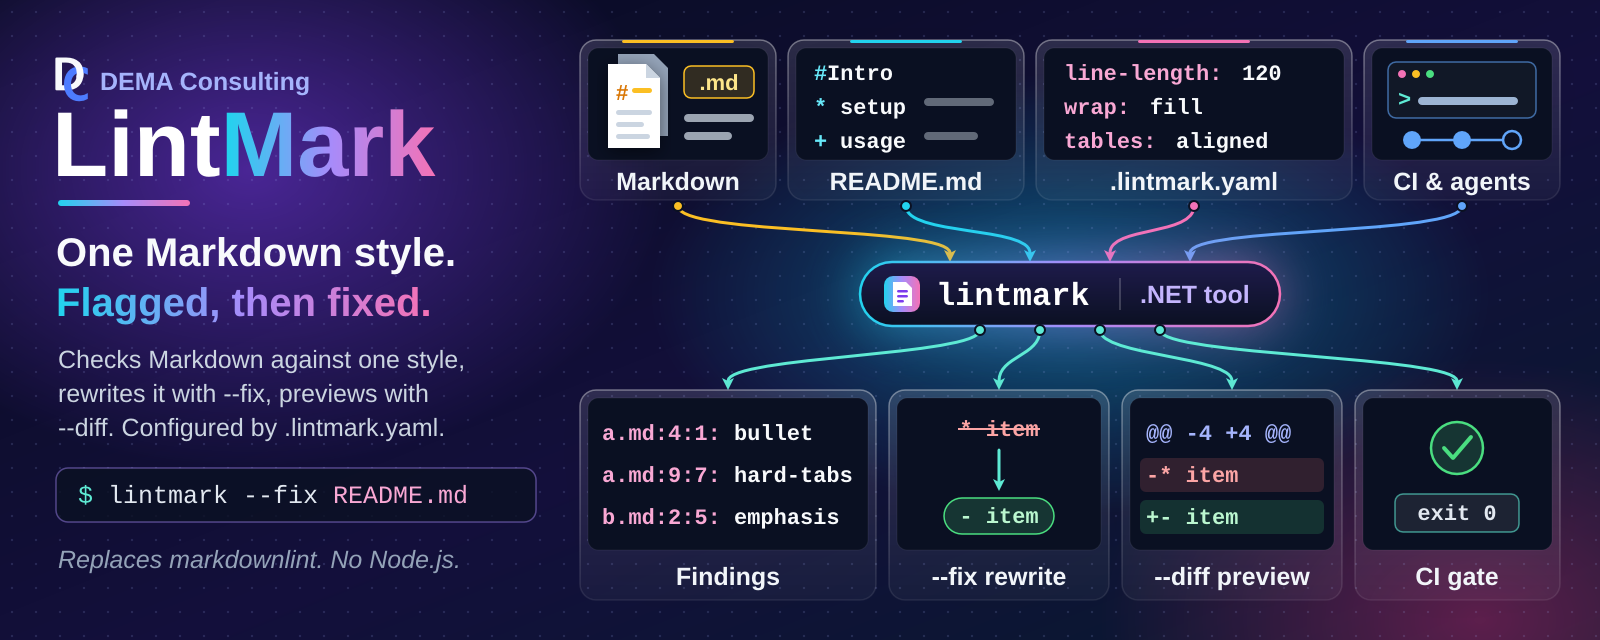
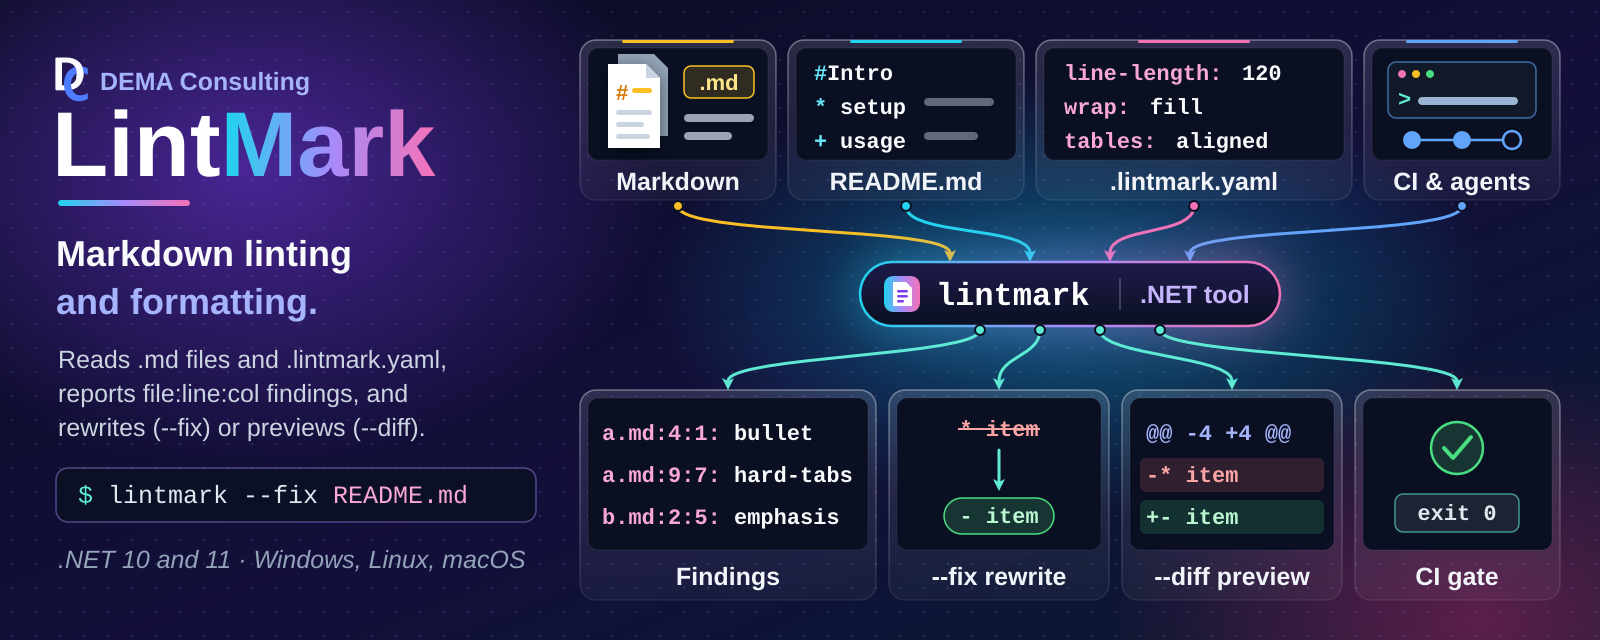
Sync agents/template and calm the README hero (#37)
* Sync agents, skills, and standards from Agents main

Copy .github/agents, skills, and standards byte-identical from
demaconsulting/Agents main (#60, #62, #64) and add the Project Scripts
section to AGENTS.md (#62).

* Sync template: yamlfix comments, script customization headers, tool pins

- .yamlfix.toml: line_length = 10000 and comments_require_starting_space = false
  with the template notes (#59, #61)
- .yamllint.yaml: disable line-length (YAML no-limit policy, #59)
- build/lint/fix.ps1: CUSTOMIZATION headers replace the old modification
  policy text (#63); no behavior change
- LintMark 0.1.0-beta.3, TextLint 0.1.0-beta.5 (#59)

* Calm the README hero and make it the H1

- Tagline is a plain statement: 'Markdown linting / and formatting.'
  (solid white and #a5b4fc, 36px, no gradient)
- Factual body, real command, and a targets/platforms footnote
- README: the hero is the H1 with the badges under it; no duplicate title
- Right side unchanged (all outputs are produced by lintmark itself)

* Record the legacy SysML2 package layout as a standards exception

* README: keep the hero H1 alt text to the name and tagline

The hero image is the H1, so its alt text is the page title for screen readers; the details are in the README text below.

---------

Changed region(s): [[0.0312, 0.375, 0.2812, 0.6875], [0.0312, 0.8438, 0.3438, 0.9062]]

diff --git a/.github/standards/sysml2-modeling.md b/.github/standards/sysml2-modeling.md
@@ -31,15 +31,15 @@ docs/sysml2/
 ├── common/
 │   └── software-items.sysml           # shared SoftwareItemMetadata::SoftwareInfo metadata def
 ├── model/
-│   ├── {system-name}.sysml            # system-level part def only (no subsystems/units inline)
+│   ├── {system-name}.sysml            # package {SystemName}; system-level part def only (no subsystems/units inline)
 │   ├── {system-name}/
-│   │   ├── {subsystem-name}.sysml     # subsystem part def; nests further for sub-subsystems
+│   │   ├── {subsystem-name}.sysml     # package {SystemName}_{SubsystemName}Subsystem; nests further for sub-subsystems
 │   │   └── {subsystem-name}/
-│   │       └── {unit-name}.sysml      # one file per unit
-│   ├── ots.sysml                      # OTS dependency parts (optional; if OTS items exist)
-│   └── shared.sysml                   # Shared Package parts (optional; if Shared Packages exist)
+│   │       └── {unit-name}.sysml      # package {SystemName}_{UnitName}; one file per unit
+│   ├── ots.sysml                      # package OtsDependencies: OTS parts (optional; if OTS items exist)
+│   └── shared.sysml                   # package SharedPackages: Shared Package parts (optional; if Shared Packages exist)
 └── views/
-    └── design-views.sysml             # named view usages rendered for the design document
+    └── design-views.sysml             # package {RepoName}DesignViews; named view usages rendered for the design document
 ```
 
 `docs/sysml2/common/software-items.sysml` defines the `SoftwareItemMetadata::SoftwareInfo`
@@ -62,14 +62,42 @@ so no single alias name would generalize. Agents discover the system(s) present 
 `docs/sysml2/**/*.sysml`, not by assuming a fixed name.
 
 Always pass the full set of `.sysml` files (or an equivalent glob) to every `sysml2tools`
-invocation — the model spans multiple files and cross-references between them; files sharing
-the same `package Name { ... }` merge into one namespace automatically with no `import`
-required, as long as all files are passed together. As of `sysml2tools` 0.1.0-beta.5,
+invocation — the model spans multiple files and cross-references between them, and a
+reference only resolves when the file declaring its target is loaded (see Package Structure
+below for how files reference each other). As of `sysml2tools` 0.1.0-beta.5,
 `lint` and `render` both expand `*`/`**` glob patterns internally (recursing correctly into
 subdirectories), so pass a single **quoted** glob string (e.g. `'docs/sysml2/**/*.sysml'`)
 and let the tool resolve it — do not rely on the shell to expand it, and do not quote-strip
 the pattern before it reaches the tool. Quoting keeps the behavior identical across
 PowerShell and bash, since neither shell needs to (or reliably does) expand `**` itself.
+
+## Package Structure
+
+SysML v2 has no package merging: each file is its own root namespace, and two root packages
+with the same name are duplicate members of the global namespace (the OMG Pilot
+Implementation reports "Duplicate of other owned member name" for each, and references across
+the halves do not resolve). A model that only loads because a tool is lenient is not portable,
+so:
+
+- Each `.sysml` file declares **exactly one uniquely named package**, and a package is never
+  declared (or "reopened") in more than one file.
+- Name each package from its place in the hierarchy, joined with an underscore:
+  `{SystemName}` for the system file, `{SystemName}_{SubsystemName}Subsystem` for a subsystem
+  (including a nested sub-subsystem, which is not prefixed with its parent subsystem), and
+  `{SystemName}_{UnitName}` for a unit. The system prefix keeps names unique across systems.
+  The shared files use `OtsDependencies` and `SharedPackages`, and the single views file uses
+  one repository-level package, `{RepoName}DesignViews` (not one per system).
+- Package names must be unique **repository-wide**. The short forms above are the default;
+  when one would collide (two `Storage` subsystems in different branches, or two units named
+  `Cache` in different subsystems), qualify it with the owning subsystem path, for example
+  `{SystemName}_{SubsystemName}_{UnitName}` (`Acme_Ingest_Cache` and `Acme_Query_Cache`).
+- Reference other files with an explicit `private import {PackageName}::*;` (a system or
+  subsystem file imports the package of each direct member so its `part` usages resolve; every
+  file that applies `SoftwareInfo` imports `SoftwareItemMetadata::*`).
+- Where an import would form a cycle (for example a unit that depends on a package that
+  already imports it), or for a one-off reference into another system, use the qualified name
+  instead, e.g. `dependency {UnitName} to {SystemName}_{OtherUnit}::{OtherUnit};`.
+  Import cycles raise a lint warning; qualified references do not.
 
 ## Model Content
 
@@ -174,11 +202,13 @@ Views control what gets rendered into diagrams for the design document. Use name
 **usages** (not `view def` **definitions**) — `expose` is only valid inside a usage:
 
 ```sysml
-package {SystemName} {
+package {RepoName}DesignViews {
     private import StandardViewDefinitions::*;
+    private import {SystemName}::*;
+    private import {SystemName}_{SubsystemName}Subsystem::*;
 
     view SoftwareStructureView : InterconnectionView {
-        expose {SystemName}::**;     // all members, recursively: system + subsystems + units
+        expose {SystemName}::{SystemName}System::**;  // system part def, recursively: subsystems + units
     }
 
     view {SystemName}View {
@@ -186,10 +216,12 @@ package {SystemName} {
     }
 
     view {SubsystemName}View {
-        expose {SubsystemName};      // one subsystem def only
+        expose {SubsystemName}Subsystem;      // one subsystem def only
     }
 }
 ```
+
+Views import (or qualify) every package whose members they expose, like any other file.
 
 Type `SoftwareStructureView` by a standard view definition from the SysML v2 Views library
 (`GeneralView`, `InterconnectionView`, ...; requires `sysml2tools` 0.3.0-beta.3+). The view
@@ -223,25 +255,27 @@ There is no dedicated `DependencyView`/`{SubsystemName}DependencyView` diagram c
 above), not rendered.
 
 When a repository has multiple systems, type `SoftwareStructureView` by `GeneralView`,
-expose each system package's members, and filter out documentation so the overview stays
-readable — the general view draws one package frame per system, while an interconnection
-view places all systems in a single row:
+expose each system's part def (and each subsystem's, by qualified name), and filter out
+documentation so the overview stays readable — the general view draws one package frame per
+system, while an interconnection view places all systems in a single row:
 
 ```sysml
 package {RepoName}DesignViews {
     private import StandardViewDefinitions::*;
 
     view SoftwareStructureView : GeneralView {
-        expose {SystemNameA}::**;
-        expose {SystemNameB}::**;
-        filter not @SysML::Documentation;
+        expose {SystemNameA}::{SystemNameA}System;
+        expose {SystemNameA}_{SubsystemName}Subsystem::{SubsystemName}Subsystem;
+        expose {SystemNameB}::{SystemNameB}System;
+        filter not (@SysML::Documentation);
     }
 }
 ```
 
 Documentation (`doc`) is exposed with its owner and drawn as a `doc` compartment unless a
-view filters it out; use `filter not @SysML::Documentation;` wherever doc text would clutter
-a diagram.
+view filters it out; use `filter not (@SysML::Documentation);` wherever doc text would clutter
+a diagram. The parentheses are required: the SysML v2 grammar does not accept the unparenthesized
+`filter not @SysML::Documentation;`.
 
 ## Diagram Embedding
 
@@ -313,6 +347,9 @@ sync.
   `sourceFiles`; the purpose statement appears only in the `doc` comment, never in `SoftwareInfo`
 - [ ] `docs/sysml2/views/design-views.sysml` uses `view Name { expose ...; }` usages, not
   `view def` definitions
+- [ ] Each `.sysml` file declares exactly one uniquely named package (never the same package
+  in two files), named per Package Structure, and references other files through
+  `private import` or qualified names (qualified where an import would form a cycle)
 - [ ] View names follow the `SoftwareStructureView` / `{SystemName}View` /
   `{SubsystemName}View` convention (no dedicated `DependencyView`)
 - [ ] Each Unit's real collaborators are captured as `dependency A to B;` statements, and each

diff --git a/.github/skills/sysml2tools-query/SKILL.md b/.github/skills/sysml2tools-query/SKILL.md
@@ -21,11 +21,15 @@ dotnet tool restore
 ## Model files
 
 - `docs/sysml2/model/{system-name}.sysml` — system-level `part def` only (no subsystems/units
-  inline). A repository may contain more than one system.
+  inline), in package `{SystemName}`. A repository may contain more than one system.
 - `docs/sysml2/model/{system-name}/{subsystem-name}.sysml` and
   `docs/sysml2/model/{system-name}/{subsystem-name}/{unit-name}.sysml` — one file per
   Subsystem/Unit, nested to mirror the same folder depth as that item's companion
-  `docs/design/`, `docs/reqstream/`, and `docs/verification/` files.
+  `docs/design/`, `docs/reqstream/`, and `docs/verification/` files. Each declares its own
+  uniquely named package; by default `{SystemName}_{SubsystemName}Subsystem` or
+  `{SystemName}_{UnitName}`, qualified with the subsystem path
+  (`{SystemName}_{SubsystemName}_{UnitName}`) when the short name would collide. An element's
+  qualified name is e.g. `{SystemName}_{UnitName}::{UnitName}`.
 - `docs/sysml2/model/ots.sysml` — off-the-shelf (OTS) dependency parts (present when OTS items
   exist).
 - `docs/sysml2/model/shared.sysml` — Shared Package parts (present when Shared Package items
@@ -35,9 +39,10 @@ dotnet tool restore
   useful to see how diagrams are scoped.
 
 Always pass all `.sysml` files (or a glob covering them) to every `sysml2tools`
-invocation — the model spans multiple files and cross-references between them; files that
-reopen the same `package Name { ... }` from different files merge into one namespace
-automatically, no `import` required. As of `sysml2tools` 0.1.0-beta.5, every subcommand
+invocation — the model spans multiple files and cross-references between them (each file
+declares one uniquely named package and references others through `import` or qualified
+names; same-named packages in different files are not merged), so every file a reference
+points at must be loaded. As of `sysml2tools` 0.1.0-beta.5, every subcommand
 (`lint`, `render`, `query`) expands `*`/`**` glob patterns internally and recurses
 correctly — pass a single **quoted** glob string and let the tool resolve it, rather than
 relying on the shell (quoting works identically in both PowerShell and bash):
@@ -57,7 +62,7 @@ summary line, so one query gets you every artifact location for that item withou
 the source tree:
 
 ```pwsh
-dotnet sysml2tools query describe -e {SystemName}::{UnitName} 'docs/sysml2/**/*.sysml'
+dotnet sysml2tools query describe -e {SystemName}_{UnitName}::{UnitName} 'docs/sysml2/**/*.sysml'
 ```
 
 ```text

diff --git a/AGENTS.md b/AGENTS.md
@@ -159,10 +159,31 @@ requires it and the modification preserves the documented design intent:
 
 - `.reviewmark.yaml`, `.textlint.yaml`, `.editorconfig`
 - `.lintmark.yaml`, `.yamllint.yaml`
-- `requirements.yaml`, `fix.ps1`, `lint.ps1`
+- `requirements.yaml`
+
+# Project Scripts
+
+`build.ps1`, `lint.ps1`, and `fix.ps1` belong to the project: extend them as it grows. Add project-specific
+steps, update tool versions, and add optional parameters that focus a run (for example one library in a
+multi-library repository, or headless tests without GUI automation). Two rules keep them trustworthy:
+
+- Run with no arguments, each script still does its full job (CI and the agents rely on that); slow or
+  environment-dependent test tiers may be opt-in switches of `build.ps1`.
+- Never remove or weaken a check to make lint or tests pass.
 
 # Continuous Compliance Overview
 
 This repository follows the [Continuous Compliance](https://github.com/demaconsulting/ContinuousCompliance)
 approach. Tools: **ReqStream** (requirements traceability), **ReviewMark** (file review enforcement),
 **BuildMark** (tool versions), **VersionMark** (version tracking).
+
+# Repository-Specific Standards Exceptions
+
+## SysML2 package structure (legacy layout, migration pending)
+
+The model under `docs/sysml2/` still uses the earlier layout: `package LintMark` is reopened in all 39 files under
+`docs/sysml2/model/` (including the OTS parts in `ots.sysml`, so there is no `OtsDependencies` package) and in
+`views/design-views.sysml` (no `LintMarkDesignViews` package); there are no Shared Packages. The Package Structure rules
+in `sysml2-modeling.md` and the matching qualified-name examples in the `sysml2tools-query` skill apply once the model
+is migrated in a dedicated PR; until then, query and extend the model using the existing package names and do not
+partially restructure it.

diff --git a/.github/skills/docdown/SKILL.md b/.github/skills/docdown/SKILL.md
@@ -21,7 +21,9 @@ dotnet docdown --help
 
 ## Scratch Folder
 
-The default `--overwrite clean` deletes everything in the scratch folder, so always pass a new
+The default `--overwrite clean` only replaces an earlier DocDown extraction: it deletes the files that
+folder's DocDown manifest lists and refuses to run if the folder holds anything else
+(`--overwrite overwrite` deletes everything and is never needed here). Still, always pass a new
 subfolder dedicated to the one document - never an existing folder:
 
 - **Preferred**: the agent session folder, when the host provides one, for example
@@ -39,8 +41,9 @@ Never extract into the repository.
    dotnet docdown --input path/to/data-sheet.pdf --scratch {scratch}/data-sheet
    ```
 
-   The last line of output is the path to `summary.txt`. Exit code `1` means the document was
-   unreadable or an argument was bad.
+   The last line of output is the path to `summary.txt`. Exit code `1` means the run failed for an
+   expected reason - an unreadable document, a bad argument, or an option such as `--log` whose file
+   could not be opened; the message says which.
 
 2. Read `summary.txt` first: what was extracted, what is where, and notes on anything that could
    not be read.

diff --git a/.github/agents/orchestrator.agent.md b/.github/agents/orchestrator.agent.md
@@ -48,3 +48,16 @@ briefly, what you loaded.
   let the user answer in their own words. Do not batch decisions into structured question forms (such as an
   `ask_user` tool); they strip away the context the user needs to decide and turn the session into a
   questionnaire.
+
+# Pull Requests (MANDATORY)
+
+Aim for pull requests that each merge one complete, useful change that could be cherry-picked on its own.
+
+- Before starting work that could span more than one pull request, propose the grouping and let the user
+  decide. The user may split it, or combine several small requests into one pull request.
+- When splitting, split by behavior, not by layer or file type: each part carries its own code, tests,
+  requirements, and docs, builds and passes alone, and leaves no stubs or dead code for a later part.
+- Deliver parts in order: start the next part from main only after the previous one merges.
+- Review fixes, lint fixes, and follow-ups go into the open pull request they belong to, not a new one.
+- Sub-agents work on the agreed branch and do not open pull requests; you decide when it is complete.
+- Keep mechanical churn (formatting, renames, generated files) in its own commit so reviewers can skip it.

diff --git a/.github/agents/planning.agent.md b/.github/agents/planning.agent.md
@@ -52,10 +52,13 @@ Repeat up to 2 more times, stopping when the plan is stable.
 
 List up to 5 risks with a brief mitigation for each.
 
-## Step 6 — Feasibility Assessment
+## Step 6 — Feasibility and Delivery
 
 State whether this can be implemented in a single development pass and any
-preconditions that affect feasibility.
+preconditions that affect feasibility. Propose how the work groups into pull
+requests: one complete, useful change per pull request where possible; if it
+should be split, list ordered parts that are split by behavior (not by layer or
+file type) and each build, pass, and deliver something on their own.
 
 ## Step 7 — Recommendation
 
@@ -108,9 +111,12 @@ Then respond to the caller with ONLY the lean structured summary below.
 
 1. **[severity]** {risk} — {mitigation}
 
-## Feasibility Assessment
+## Feasibility and Delivery
 
 {Single-pass or not, and why. Any preconditions.}
+
+{Proposed pull-request grouping: one pull request, or ordered parts split by behavior,
+each with what it delivers on its own.}
 
 ## Unknowns
 

diff --git a/README.md b/README.md
@@ -1,4 +1,4 @@
-# LintMark
+# ![LintMark: Markdown linting and formatting][hero]
 
 [![GitHub forks][badge-forks]][link-forks]
 [![GitHub stars][badge-stars]][link-stars]
@@ -8,11 +8,6 @@
 [![Quality Gate][badge-quality]][link-quality]
 [![Security][badge-security]][link-security]
 [![NuGet][badge-nuget]][link-nuget]
-
-![LintMark banner: the LintMark name with the tagline 'One Markdown style. Flagged, then fixed.' and the command
-lintmark --fix README.md. Markdown docs, a README, a .lintmark.yaml, and CI and coding agents flow on curved arrows
-into the lintmark .NET tool, and arrows lead out to findings as file:line:col: rule-id, a --fix rewrite of a list
-item, a --diff preview, and a CI gate passing with exit 0][hero]
 
 LintMark is a .NET tool, distributed as a NuGet tool package, for linting and optionally reformatting markdown files
 into a preferred format, with optional tweaks via a .lintmark.yaml configuration file.
